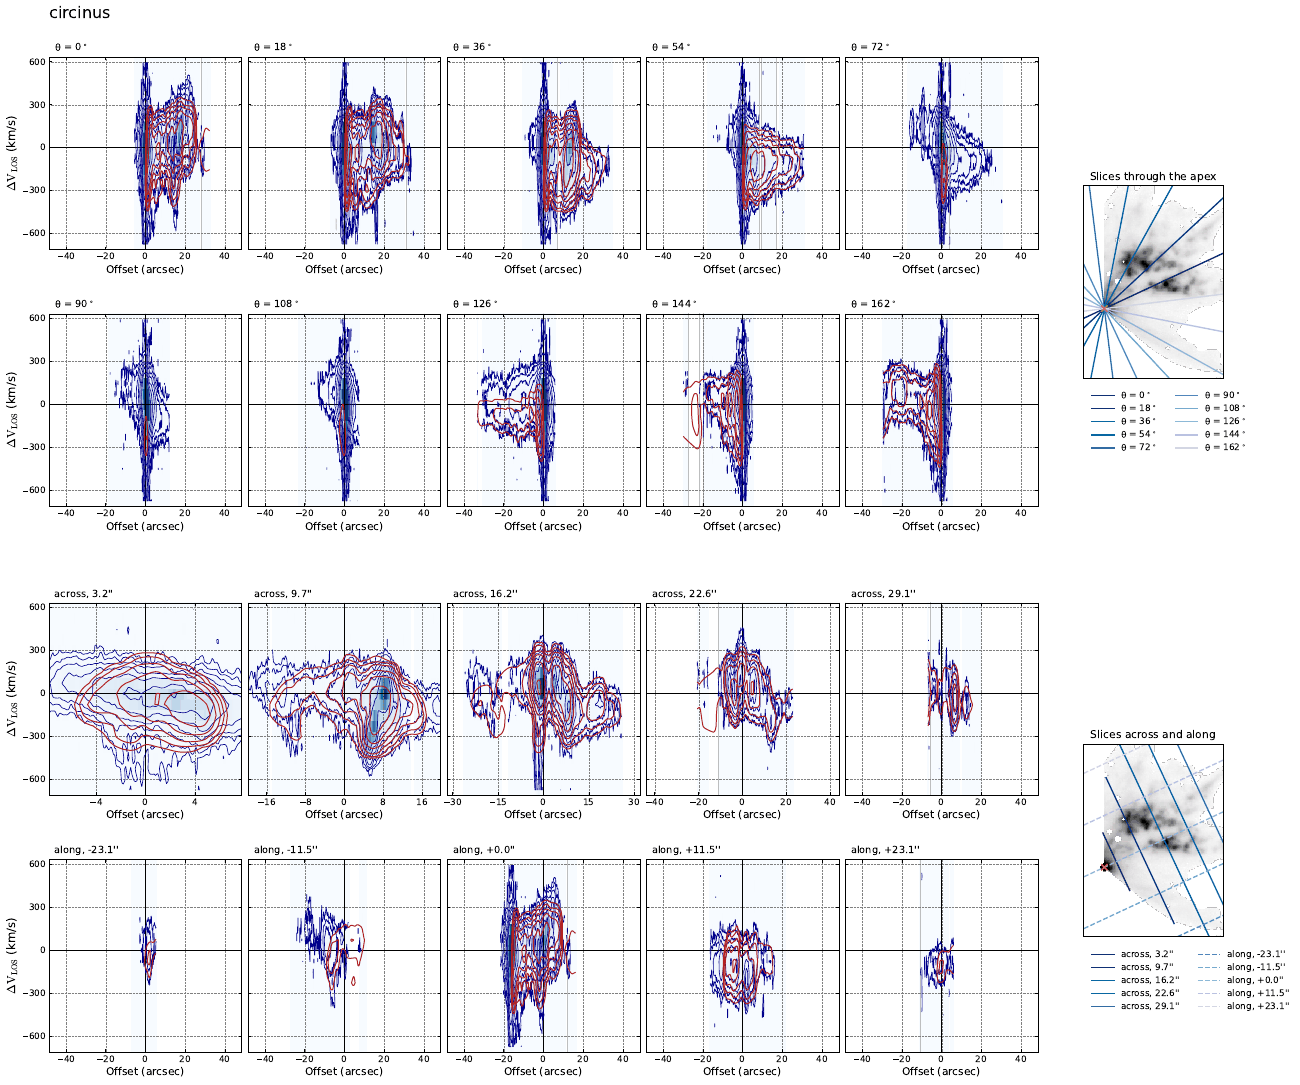
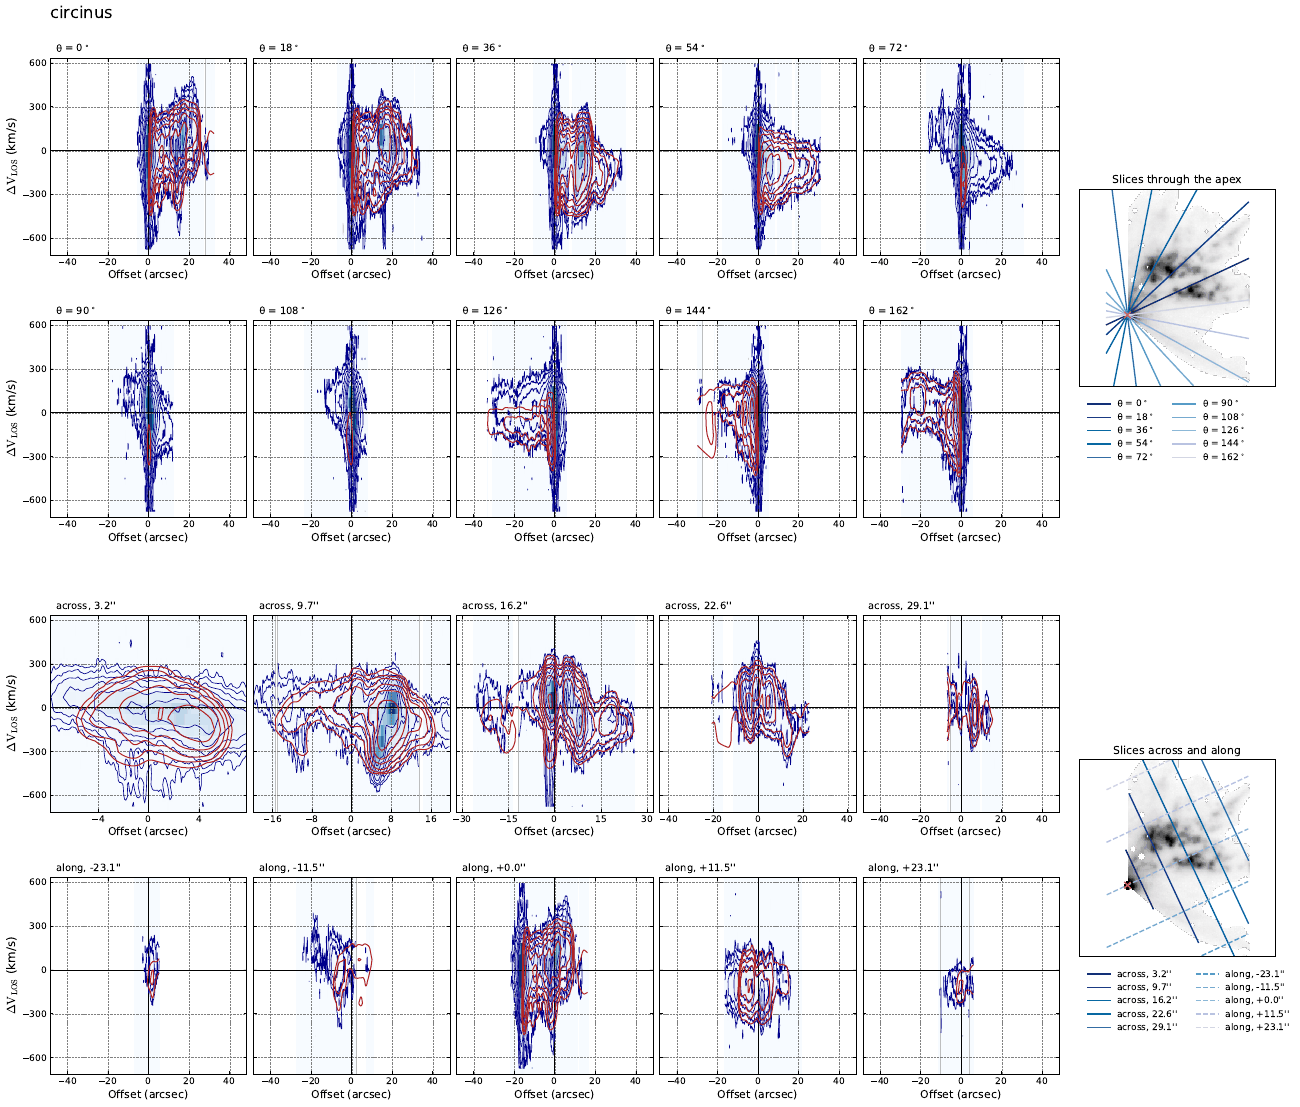
WINDFIT: the voxel model covers the whole cone; residual colour bars, square slice maps
- emission=voxel: the model cube (the data where the cone reaches) kept the voxels above 1/1000 of the peak of
  the fitted emission; with a steep EMSLOPE (Circinus 4.35) it stopped 3.4" from the nucleus of a 52" cone.
  The reach is now that of a uniform cone (geometry, wind, beam and line spread), whatever the emission profile.
  The likelihood is unchanged. Regression test in test_bayesian_wind_voxel.
- _maps_wind.pdf: the residual maps have their own colour bar, as 3DFIT (a long intensity unit: smaller label,
  no unit on the residual bar).
- _pvslices_wind.pdf: the maps of the slice paths are square, the region padded with blanks, as 3DFIT.
- Circinus page: the comparison, maps and slices figures redone.

Changed region(s): [[0.0, 0.5475, 0.9846, 1.0], [0.0308, 0.0, 0.9846, 0.4866], [0.0, 0.0912, 0.0615, 0.1825]]

diff --git a/bbarolo/bayesian/wind_plots.py b/bbarolo/bayesian/wind_plots.py
@@ -183,6 +183,9 @@ to_plot = [[mom[0],mom[1]-vsys_m,mom[2]],[mod[0],mod[1]-vsys_m,mod[2]],[mom[0]-m
 cmaps = [plt.get_cmap('Spectral_r'),plt.get_cmap('coolwarm'),plt.get_cmap('PuOr_r')]
 barlab = ['Intensity ('+bunit_map+')', r'V$_\\mathrm{LOS}$ - V$_\\mathrm{sys}$ (km/s)',
           r'$\\sigma_\\mathrm{obs}$ (km/s)']
+# (the units of the residual intensity, those of the data, only when short: a long unit runs into the label of the data)
+barlab2 = [r'I$_\\mathrm{res}$'+(' ('+bunit_map+')' if len(bunit_map) <= 15 else ''), r'V$_\\mathrm{res}$ (km/s)',
+           r'$\\sigma_\\mathrm{res}$ (km/s)']
 titles = ['DATA', 'MODEL','RESIDUALS']
 ext = [0,xsize+pad_x[0]+pad_x[1],0,ysize+pad_y[0]+pad_y[1]]
 interval = PercentileInterval(99.5)
@@ -202,7 +205,7 @@ for i in range (3):
   norm = mpl.colors.Normalize(vmin=vmin, vmax=vmax)
   cbax = fig.add_axes([ax[i][0].get_position().x0,ax[i][0].get_position().y0-0.025,2*0.2-0.003,0.02])
   cb1 = ColorbarBase(cbax, orientation='horizontal', cmap=cmap, norm=norm)
-  cb1.set_label(barlab[i],fontsize=13)
+  cb1.set_label(barlab[i],fontsize=13 if i or len(bunit_map) <= 20 else 10)   # (a long unit: smaller)
   for j in range (3):
     axis = ax[i][j]
     axis.tick_params(labelbottom=False,labelleft=False,right=True,top=True,direction='in')
@@ -220,6 +223,11 @@ for i in range (3):
     axis.set_xlim(ext[0],ext[1])
     axis.set_ylim(ext[2],ext[3])
     if i==0: axis.text(0.5,1.05,titles[j],ha='center',transform=axis.transAxes,fontsize=15)
+  # (the residuals: their own colour bar, symmetric about 0)
+  cbax = fig.add_axes([ax[i][2].get_position().x0+0.003,ax[i][2].get_position().y0-0.025,0.2-0.003,0.02])
+  cb2 = ColorbarBase(cbax, orientation='horizontal', cmap=cmap, norm=nrm)
+  cb2.set_label(barlab2[i],fontsize=13)
+  cb2.ax.locator_params(nbins=3)
 ax[0][0].text(0, 1.2, gname, transform=ax[0][0].transAxes,fontsize=18)
 fig.savefig(outfolder+outprefix+'_maps_wind.pdf', bbox_inches='tight')
 """
@@ -343,14 +351,21 @@ pos = axes[4].get_position()
 ax_m1 = fig.add_axes([pos.x1+0.03, pos.y0-0.2, 0.3, 0.3])
 pos = axes[14].get_position()
 ax_m2 = fig.add_axes([pos.x1+0.03, pos.y0-0.27, 0.3, 0.3])
-norm0 = ImageNormalize(mom0[np.isfinite(mom0)], interval=PercentileInterval(99.), stretch=PowerStretch(0.5))
+fin0 = mom0[ymin:ymax+1, xmin:xmax+1][np.isfinite(mom0[ymin:ymax+1, xmin:xmax+1])]
+norm0 = ImageNormalize(fin0 if fin0.size else np.zeros(1), interval=PercentileInterval(99.), stretch=PowerStretch(0.5))
 colors = plt.cm.PuBu_r(np.linspace(0,1,13))
+# (the region of the plots, padded to a square with blanks, as the maps of 3DFIT)
+mom0_box = mom0[ymin:ymax+1, xmin:xmax+1]
+ext_box = [xmin-0.5, xmax+0.5, ymin-0.5, ymax+0.5]
+half_sq = 0.5*max(xmax-xmin+1, ymax-ymin+1)
+xc_sq, yc_sq = 0.5*(xmin+xmax), 0.5*(ymin+ymax)
 for ax_m, title in ((ax_m1, 'Slices through the apex'), (ax_m2, 'Slices across and along')):
   ax_m.set_prop_cycle(color=colors)
-  ax_m.imshow(mom0, origin='lower', cmap='Greys', norm=norm0, interpolation='nearest')
+  ax_m.imshow(mom0_box, origin='lower', cmap='Greys', norm=norm0, interpolation='nearest', extent=ext_box)
   ax_m.plot(x0, y0, 'x', color='orange', markersize=7, mew=1.5, zorder=12)
-  ax_m.set_xlim(xmin, xmax)
-  ax_m.set_ylim(ymin, ymax)
+  ax_m.set_xlim(xc_sq-half_sq, xc_sq+half_sq)
+  ax_m.set_ylim(yc_sq-half_sq, yc_sq+half_sq)
+  ax_m.set_aspect('equal')
   ax_m.tick_params(labelbottom=False, labelleft=False, top=False, bottom=False, left=False, right=False)
   ax_m.set_title(title, fontsize=labsize)
 fin = cube[zmin:zmax+1][np.isfinite(cube[zmin:zmax+1])]

diff --git a/tests/test_wind.py b/tests/test_wind.py
@@ -548,7 +548,9 @@ def test_bayesian_wind_voxel(tmp_path):
     detection likelihood: EMSCALE, EMCLUMP, EMRATIO and EMSLOPE are added to the free parameters, SIGMA and DISKRINGS
     are errors; the likelihood prefers the true opening angle and velocity to wider or faster cones (which the old
     voxel weighting, without a penalty for the voxels it predicts and the data find empty, preferred) and to narrower or
-    slower ones; a short sampling runs and the outputs are written, the model being the data where the cone reaches."""
+    slower ones; a short sampling runs and the outputs are written, the model being the data where the cone reaches.
+    That model covers the whole cone whatever the radial profile of the emission: with a steep EMSLOPE it kept only
+    the voxels within 1/1000 of the peak of the emission, near the apex (Circinus: 3.4 of 52 arcsec)."""
     pytest.importorskip("dynesty")
     from wind_mocks import mock_wind
     from bbarolo import BayesianWind
@@ -575,6 +577,9 @@ def test_bayesian_wind_voxel(tmp_path):
         assert ll(vw, oa) < best - 5, (vw, oa)
     for vw, oa in ((200., 40.), (140., 60.)):                     # narrower, slower: the detections left out
         assert ll(vw, oa) < best - 2, (vw, oa)
+    # the model: the data where the cone reaches, the same with a uniform and a steep emission profile
+    sup = [f._model_cube(f.log_likelihood([200., 60., f._s0, 1., 1., sl], details=True)[1]) != 0 for sl in (0., 6.)]
+    assert sup[0].sum() > 0.1 * sup[0].size and np.array_equal(sup[0], sup[1])
     g = BayesianWind(hdu, diskrings=str(tmp_path / "rings.txt"), **kw)
     g.like_kwargs = dict(g.like_kwargs, emission="voxel")
     with pytest.raises(BBaroloError):
@@ -582,8 +587,7 @@ def test_bayesian_wind_voxel(tmp_path):
     f.sample(freepar=["vwind_single", "openang"], sampler="dynesty", sampler_kwargs=dict(nlive=10, seed=1),
           run_kwargs=dict(maxiter=40), like_kwargs=dict(emission="voxel"), verbose=False)
     assert f.ndim == 6 and np.all(np.isfinite(f.params))
-    cov = f.best_details["covered"]
-    assert np.array_equal(f.model, np.where(cov, f._dsafe, 0.))
+    assert np.array_equal(f.model, np.where(f._voxel_covered(f.best), f._dsafe, 0.))
     f.write(plots=0, verbose=False)
     pre = f._cube_obj.pars().outPrefix
     with open(str(tmp_path) + "/" + pre + "_wind_params.txt") as fh:

diff --git a/bbarolo/bayesian/wind.py b/bbarolo/bayesian/wind.py
@@ -882,8 +882,7 @@ class BayesianWind(_FitTask):
             res = minimize_scalar(lambda v: -loglike(math.exp(v)), bounds=(grid[max(i - 1, 0)], grid[min(i + 1, 14)]),
                                   method="bounded", options=dict(xatol=0.02))
             s = math.exp(res.x if res.fun < vals[i] else grid[i])
-        thr = 1e-3 * float(np.max(M)) if np.max(M) > 0 else 0.
-        return loglike(s), dict(x=None, p=p, covered=M > thr, emscale=s, hyp=hyp)
+        return loglike(s), dict(x=None, p=p, pts=pts, emscale=s, hyp=hyp)
 
     def _loglike_moka(self, p, hyp):
         """'moka' (the statistic of MoKA-3D, Marconcini et al. 2023, sect. 2.3-2.6): -kappa/2 times the correlation
@@ -1158,12 +1157,22 @@ class BayesianWind(_FitTask):
         self.emission = det.get("x")
         self.model = self._model_cube(det)
 
+    def _voxel_covered(self, p, pts=None):
+        """The voxels that the cone of the wind p reaches (the model of emission=voxel is the data there, as in MoKA-3D):
+        those where a uniform cone (no radial profile: the geometry and the velocities only, with the beam and the
+        line spread) is above 1e-3 of its peak. A boolean cube of the shape of the data."""
+        wm = self._wm
+        pts = wm.points(p) if pts is None else pts
+        M = wm.boxes(p, pts=pts).model(np.where(pts["vol"] > 0, 1., 0.), self.data.shape)
+        top = float(np.max(M))
+        return M > 1e-3 * top if top > 0 else np.zeros(M.shape, bool)
+
     def _model_cube(self, det):
         """The model cube (nz, ny, nx) of the details of log_likelihood."""
         shape = self.data.shape
         basis = self.like_kwargs["emission"]
         if basis == "voxel":
-            return np.where(det["covered"], self._dsafe, 0.)
+            return np.where(self._voxel_covered(det["p"], det.get("pts")), self._dsafe, 0.)
         if basis == "moka":                 # (the weighted model of MoKA-3D: the data where the clouds are)
             return self._dsafe * (1. - np.exp(-det["lam"])) if "lam" in det else np.zeros(shape)
         if basis == "spaxel":

diff --git a/CHANGES.md b/CHANGES.md
@@ -7,6 +7,14 @@ Bugs marked **(C++)** are also in the C++ BBarolo 1.8; the others were introduce
 
 ### Fixed
 
+- **WINDFIT `emission=voxel`: the model cube (`_mod_wind.fits` and the plots) stopped short of the cone.** The model
+  is the data where the cone reaches (as MoKA-3D), and the reach was the voxels where the expected emission of the
+  fitted cone was above 1/1000 of its peak. With the emission falling steeply the peak, at the apex, dwarfs the rest:
+  on Circinus (EMSLOPE 4.35) the model stopped 3.4″ from the nucleus, on a 52″ cone, and held 1% of the detections. The
+  reach is now that of the cone itself, whatever the profile of the emission: the voxels where a uniform cone (the
+  geometry and the velocities, with the beam and the line spread) is above 1/1000 of its peak (Circinus: the whole
+  field, 93% of the detections). The fit (the likelihood) is unchanged.
+
 - **METHOD GLOBAL stopped with "the likelihood is not finite at the starting point" when the parameters of a function
   of radius, at the centres of their priors, gave a zero likelihood** (NGC 891 with `Z0_FUNC` p1·exp(R/p2) and
   priors p1 0.1–50, p2 100–1000: a thin layer of 26″ to 77″, thicker than Z0THICK = 30 beyond 100″). They now start,
@@ -833,6 +841,12 @@ Bugs marked **(C++)** are also in the C++ BBarolo 1.8; the others were introduce
   SPECRES is not given, as in C++.
 
 ### Changed
+
+- **The residual maps of WINDFIT (`_maps_wind.pdf`) have their own colour bar**, as those of 3DFIT: their scale,
+  symmetric about 0, was not shown.
+
+- **The maps of the paths in `_pvslices_wind.pdf` (WINDFIT) are square**: the region of the plots padded with
+  blanks, as the maps of 3DFIT, instead of the region alone, as tall or as wide as it is.
 
 - **The panels of `_wind_shells.pdf` (WINDFIT) no longer overlap**: the labels of the y axes ran into the panel on
   their left (a constrained layout).

diff --git a/docs/tasks/windfit/index.md b/docs/tasks/windfit/index.md
@@ -131,7 +131,9 @@ In the output folder, with the prefix of the cube:
 - `_wind_params.txt`: the free parameters, the median and the 1σ interval of their posterior, and the priors;
 - `_wind_shells.txt`: the shells of the best fit with their errors, and the flux of each cone in radial bins;
 - `_wind_cells.txt`: the cells of the emission and their emissivities at the best fit (not with `emission` `spaxel`, `voxel` or `moka`);
-- `_mod_wind.fits`: the best model (as the `_mod_<norm>.fits` of 3DFIT), and `_mask.fits`;
+- `_mod_wind.fits`: the best model (as the `_mod_<norm>.fits` of 3DFIT; with `emission` `voxel`, the data in the
+  voxels the cone reaches, those where a uniform cone with its geometry and wind is above 1/1000 of its peak), and
+  `_mask.fits`;
 - `maps/`: the total intensity, velocity and dispersion maps of the data, in the mask, and of the model
   (`_0mom.fits`, ..., `_mod_0mom_wind.fits`, ...), as 3DFIT;
 - `pvs/`: position-velocity slices of the data, the model and the mask through the apex, across the axis of

diff --git a/docs/examples/circinus.md b/docs/examples/circinus.md
@@ -275,9 +275,7 @@ They took 4 to 8.5 minutes each. The four agree on a cone inclined by 66° to 85
 Position–velocity slices of the data in the mask (grey, blue contours) along the axis of the cone and across it 10
 arcsec from the nucleus, one beam wide, with the model cubes of the four fits (red contours, at the levels of the
 data). The models of `voxel` and `moka` are the data where their cone reaches, as in MoKA-3D, so the dashed line
-shows the cone itself: a uniform cone with the same geometry and wind (made with GALWIND). The model of `voxel`
-keeps the data where the expected emission of its cone is above 1/1000 of its peak: with the emission falling as
-r^−4.35 (EMSLOPE), only within 3 arcsec of the nucleus.
+shows the cone itself: a uniform cone with the same geometry and wind (made with GALWIND).
 ```
 
 **VSYS free.** With VSYS free as well (`FREE=VWIND_SINGLE INC VSYS`, PRIORS VSYS between −300 and +300 km/s), the
